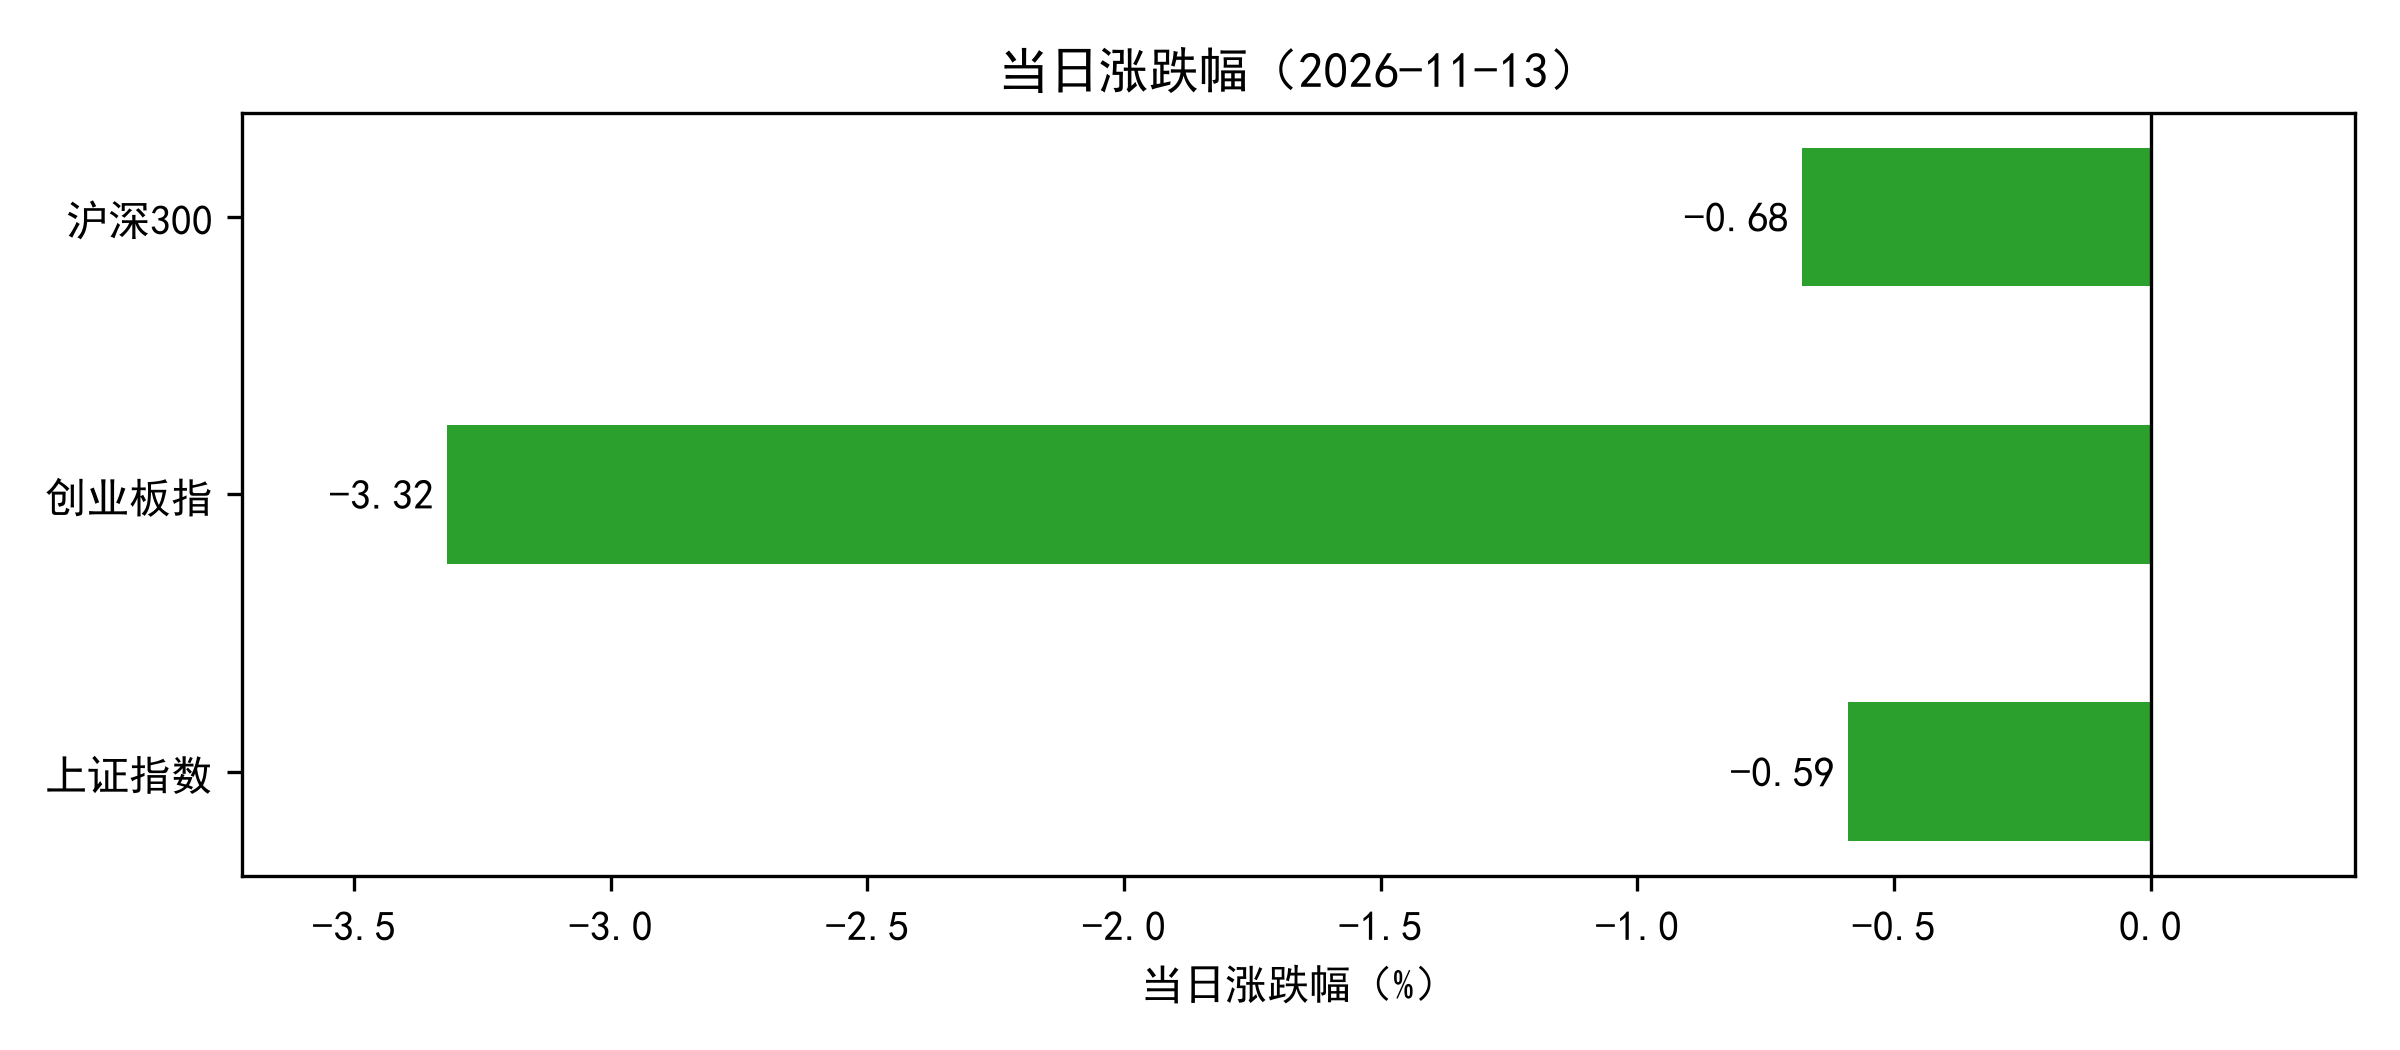
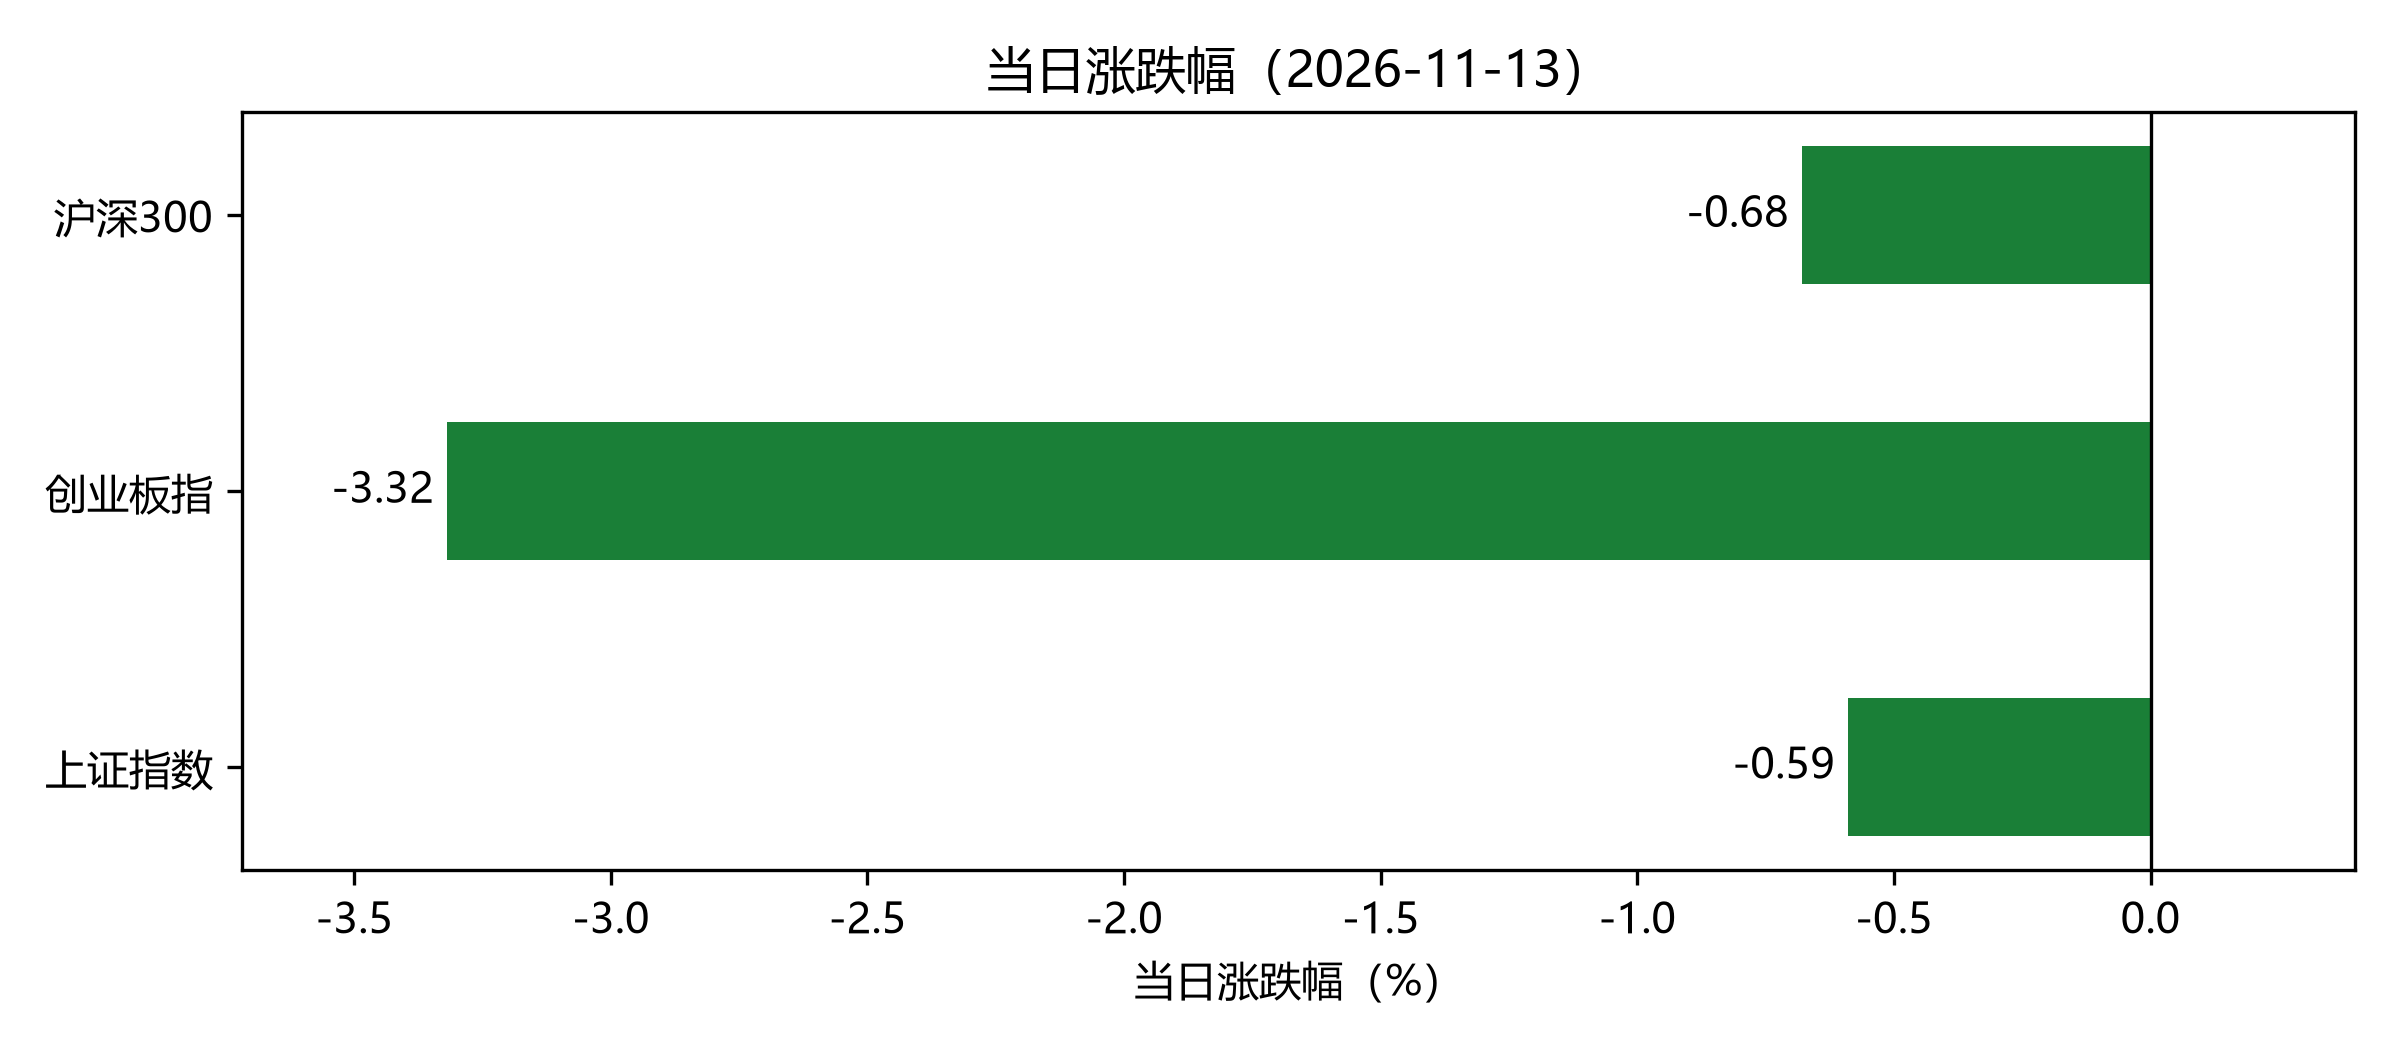
页面美化

diff --git a/docs/style.css b/docs/style.css
@@ -1,8 +1,116 @@
-body { max-width: 900px; margin: 40px auto; padding: 0 20px;
-       font-family: "Microsoft YaHei", system-ui, sans-serif; color: #333; }
-h1 { font-size: 24px; border-bottom: 2px solid #eee; padding-bottom: 12px; }
-table { width: 100%; border-collapse: collapse; margin: 20px 0; }
-th, td { padding: 10px; border-bottom: 1px solid #eee; text-align: right; }
+:root {
+  --text: #1f2328;
+  --muted: #6b7280;
+  --line: #e5e7eb;
+  --card: #f6f8fa;
+  --accent: #0969da;
+  --up: #d1242f;    /* 涨：红 */
+  --down: #1a7f37;  /* 跌：绿 */
+}
+
+* { box-sizing: border-box; }
+
+body {
+  max-width: 860px;
+  margin: 0 auto;
+  padding: 48px 20px 64px;
+  font-family: -apple-system, "Segoe UI", "Microsoft YaHei", system-ui, sans-serif;
+  font-size: 15px;
+  line-height: 1.65;
+  color: var(--text);
+  background: #fff;
+}
+
+h1 {
+  font-size: 26px;
+  font-weight: 700;
+  letter-spacing: -0.3px;
+  margin: 0 0 6px;
+}
+
+.date {
+  color: var(--muted);
+  font-size: 13px;
+  margin: 0 0 26px;
+  padding-bottom: 18px;
+  border-bottom: 1px solid var(--line);
+}
+
+.summary {
+  background: var(--card);
+  border-left: 3px solid var(--accent);
+  padding: 14px 18px;
+  border-radius: 0 6px 6px 0;
+  margin: 0 0 30px;
+  font-size: 14px;
+  color: #374151;
+}
+
+.cards {
+  display: grid;
+  grid-template-columns: repeat(3, 1fr);
+  gap: 12px;
+  margin: 0 0 34px;
+}
+.card {
+  background: var(--card);
+  border: 1px solid var(--line);
+  border-radius: 10px;
+  padding: 16px 18px;
+}
+.card .name { font-size: 13px; color: var(--muted); margin-bottom: 6px; }
+.card .value {
+  font-size: 24px;
+  font-weight: 600;
+  font-variant-numeric: tabular-nums;
+  letter-spacing: -0.5px;
+}
+.card .sub { font-size: 12px; color: var(--muted); margin-top: 4px; }
+
+.up { color: var(--up); }
+.down { color: var(--down); }
+
+table {
+  width: 100%;
+  border-collapse: collapse;
+  margin: 0 0 36px;
+  font-variant-numeric: tabular-nums;
+}
+th, td {
+  padding: 11px 10px;
+  border-bottom: 1px solid var(--line);
+  text-align: right;
+  font-size: 14px;
+}
 th:first-child, td:first-child { text-align: left; }
-img { width: 100%; margin: 16px 0; }
-footer { color: #999; font-size: 13px; margin-top: 40px; }
+th { font-size: 12px; color: var(--muted); font-weight: 600; letter-spacing: 0.4px; }
+td:first-child { font-weight: 500; }
+tbody tr:hover { background: #fafbfc; }
+
+figure { margin: 0 0 28px; }
+figure img {
+  width: 100%;
+  display: block;
+  border: 1px solid var(--line);
+  border-radius: 10px;
+}
+figcaption {
+  font-size: 12px;
+  color: var(--muted);
+  margin-top: 8px;
+  text-align: center;
+}
+
+footer {
+  border-top: 1px solid var(--line);
+  padding-top: 16px;
+  color: var(--muted);
+  font-size: 12px;
+}
+
+@media (max-width: 640px) {
+  body { padding: 28px 16px 40px; }
+  h1 { font-size: 22px; }
+  .cards { grid-template-columns: 1fr; }
+  th, td { padding: 9px 4px; font-size: 12.5px; }
+}

diff --git a/docs/index.html b/docs/index.html
@@ -3,12 +3,22 @@
 <head>
   <meta charset="utf-8">
   <meta name="viewport" content="width=device-width, initial-scale=1">
-  <title>市场指数日报</title>
+  <meta name="description" content="上证指数、沪深300、创业板指的每交易日行情汇总">
+  <title>市场指数日报 · 2026-11-13</title>
   <link rel="stylesheet" href="style.css">
 </head>
 <body>
   <h1>市场指数日报</h1>
   <p class="date">2026-11-13 收盘</p>
+
+  <p class="summary">当日三大指数全线收跌，跌幅最大的是创业板指（-3.32%）。年初至今创业板指累计回落 26.36%，幅度最深。</p>
+
+  <div class="cards">
+    <div class="card"><div class="name">上证指数</div><div class="value down">-0.59%</div><div class="sub">收盘 3634.35</div></div>
+<div class="card"><div class="name">创业板指</div><div class="value down">-3.32%</div><div class="sub">收盘 2426.08</div></div>
+<div class="card"><div class="name">沪深300</div><div class="value down">-0.68%</div><div class="sub">收盘 4016.29</div></div>
+  </div>
+
   <table>
     <thead>
       <tr>
@@ -17,16 +27,24 @@
       </tr>
     </thead>
     <tbody>
-      <tr><td>上证指数</td><td>3634.35</td><td>-0.59%</td><td>-2.20%</td><td>-9.67%</td><td>1.00</td></tr>
-<tr><td>创业板指</td><td>2426.08</td><td>-3.32%</td><td>-12.49%</td><td>-26.36%</td><td>0.94</td></tr>
-<tr><td>沪深300</td><td>4016.29</td><td>-0.68%</td><td>-3.70%</td><td>-14.87%</td><td>0.95</td></tr>
+      <tr><td>上证指数</td><td>3634.35</td><td class="down">-0.59%</td><td class="down">-2.20%</td><td class="down">-9.67%</td><td>1.00</td></tr>
+<tr><td>创业板指</td><td>2426.08</td><td class="down">-3.32%</td><td class="down">-12.49%</td><td class="down">-26.36%</td><td>0.94</td></tr>
+<tr><td>沪深300</td><td>4016.29</td><td class="down">-0.68%</td><td class="down">-3.70%</td><td class="down">-14.87%</td><td>0.95</td></tr>
     </tbody>
-    <p>过去一年三大指数均在下跌区间，创业板指跌幅最深（约 22.6%），上证指数相对抗跌（约 8.2%）。当日三大指数全线收跌，创业板指跌 3.32%，波动明显大于主板。</p>
   </table>
-  <section>
+
+  <figure>
     <img src="img/trend.png" alt="三大指数近一年走势">
+    <figcaption>近 250 个交易日走势，起点归一化为 100</figcaption>
+  </figure>
+
+  <figure>
     <img src="img/bar.png" alt="当日涨跌幅">
-  </section>
-  <footer>数据来源：新浪财经 · 最后生成：2026-11-13 18:02</footer>
+    <figcaption>2026-11-13 当日涨跌幅，红涨绿跌</figcaption>
+  </figure>
+
+  <footer>
+    数据来源：新浪财经 · 最后生成：2026-11-17 12:31
+  </footer>
 </body>
 </html>

diff --git a/page.py b/page.py
@@ -1,31 +1,95 @@
 import os
+from datetime import datetime
+
 import pandas as pd
-df=pd.read_csv('output/metrics.csv')
-rows=[]
-for _, row in df.iterrows():
+
+df = pd.read_csv('output/metrics.csv')
+
+
+def color(v):
+    """涨红跌绿，返回对应的 class 名"""
+    return "up" if v >= 0 else "down"
+
+
+def pct(v):
+    """带正负号的百分比，例如 +1.23% / -0.59%"""
+    return f"{v:+.2f}%"
+
+
+# ---------- 顶部三张指标卡 ----------
+cards = []
+for _, r in df.iterrows():
+    cards.append(
+        f'<div class="card">'
+        f'<div class="name">{r["指数"]}</div>'
+        f'<div class="value {color(r["当日%"])}">{pct(r["当日%"])}</div>'
+        f'<div class="sub">收盘 {r["收盘"]:.2f}</div>'
+        f'</div>'
+    )
+cards_html = "\n".join(cards)
+
+# ---------- 表格 ----------
+rows = []
+for _, r in df.iterrows():
     rows.append(
         f"<tr>"
-        f"<td>{row['指数']}</td>"
-        f"<td>{row['收盘']:.2f}</td>"
-        f"<td>{row['当日%']:.2f}%</td>"
-        f"<td>{row['近20日%']:.2f}%</td>"
-        f"<td>{row['年初至今%']:.2f}%</td>"
-        f"<td>{row['量比']:.2f}</td>"
+        f"<td>{r['指数']}</td>"
+        f"<td>{r['收盘']:.2f}</td>"
+        f'<td class="{color(r["当日%"])}">{pct(r["当日%"])}</td>'
+        f'<td class="{color(r["近20日%"])}">{pct(r["近20日%"])}</td>'
+        f'<td class="{color(r["年初至今%"])}">{pct(r["年初至今%"])}</td>'
+        f"<td>{r['量比']:.2f}</td>"
         f"</tr>"
     )
-rows_html='\n'.join(rows)
-date=df['日期'].iloc[0]
-html=f"""<!DOCTYPE html>
+rows_html = "\n".join(rows)
+
+# ---------- 结论：从数据算出来，不写死 ----------
+# 写死的数字会在自动更新后变成错的，所以这里每次重新生成。
+down = int((df["当日%"] < 0).sum())
+worst_today = df.loc[df["当日%"].idxmin()]
+worst_ytd = df.loc[df["年初至今%"].idxmin()]
+
+if down == len(df):
+    head = "全线收跌"
+elif down == 0:
+    head = "全线收涨"
+else:
+    head = f"{down} 跌 {len(df) - down} 涨"
+
+summary = (
+    f"当日三大指数{head}，跌幅最大的是{worst_today['指数']}"
+    f"（{worst_today['当日%']:.2f}%）。"
+    f"年初至今{worst_ytd['指数']}累计回落 {abs(worst_ytd['年初至今%']):.2f}%，幅度最深。"
+)
+
+date = df['日期'].iloc[0]
+
+# 生成时间用北京时间（GitHub Actions 的机器跑在 UTC）
+try:
+    from zoneinfo import ZoneInfo
+    generated = datetime.now(ZoneInfo("Asia/Shanghai")).strftime('%Y-%m-%d %H:%M')
+except Exception:
+    generated = datetime.now().strftime('%Y-%m-%d %H:%M')
+
+html = f"""<!DOCTYPE html>
 <html lang="zh-CN">
 <head>
   <meta charset="utf-8">
   <meta name="viewport" content="width=device-width, initial-scale=1">
-  <title>市场指数日报</title>
+  <meta name="description" content="上证指数、沪深300、创业板指的每交易日行情汇总">
+  <title>市场指数日报 · {date}</title>
   <link rel="stylesheet" href="style.css">
 </head>
 <body>
   <h1>市场指数日报</h1>
   <p class="date">{date} 收盘</p>
+
+  <p class="summary">{summary}</p>
+
+  <div class="cards">
+    {cards_html}
+  </div>
+
   <table>
     <thead>
       <tr>
@@ -36,18 +100,27 @@ html=f"""<!DOCTYPE html>
     <tbody>
       {rows_html}
     </tbody>
-    <p>过去一年三大指数均在下跌区间，创业板指跌幅最深（约 22.6%），上证指数相对抗跌（约 8.2%）。当日三大指数全线收跌，创业板指跌 3.32%，波动明显大于主板。</p>
   </table>
-  <section>
+
+  <figure>
     <img src="img/trend.png" alt="三大指数近一年走势">
+    <figcaption>近 250 个交易日走势，起点归一化为 100</figcaption>
+  </figure>
+
+  <figure>
     <img src="img/bar.png" alt="当日涨跌幅">
-  </section>
-  <footer>数据来源：新浪财经 · 最后生成：2026-11-13 18:02</footer>
+    <figcaption>{date} 当日涨跌幅，红涨绿跌</figcaption>
+  </figure>
+
+  <footer>
+    数据来源：新浪财经 · 最后生成：{generated}
+  </footer>
 </body>
 </html>
 """
-os.makedirs('docs',exist_ok=True)
-with open(os.path.join('docs','index.html'),'w',encoding='utf-8') as f:
+
+os.makedirs('docs', exist_ok=True)
+with open(os.path.join('docs', 'index.html'), 'w', encoding='utf-8') as f:
     f.write(html)
 print("已生成 docs/index.html")
 print("页面里共有", len(df), "行数据")

diff --git a/charts.py b/charts.py
@@ -2,7 +2,8 @@ import matplotlib.pyplot as plt
 import pandas as pd
 import os
 import matplotlib.dates as mdates
-plt.rcParams['font.sans-serif']=['SimHei']
+# 三个字体按顺序找，Windows 用前两个，Linux（GitHub Actions）用最后一个
+plt.rcParams['font.sans-serif']=['Microsoft YaHei','SimHei','Noto Sans CJK SC']
 plt.rcParams['axes.unicode_minus']=False
 data1=pd.read_csv('data/raw/上证指数_sh000001.csv')
 data2=pd.read_csv("data/raw/创业板指_sz399006.csv")
@@ -37,7 +38,7 @@ fig,ax=plt.subplots(figsize=(12,6))
 for name,df in dict1.items():
     ax.plot(df['date'],df['norm'],label=name)
 ax.axhline(y=100,color='gray',linestyle='--')
-ax.set_title("三大指数近一年走势")
+ax.set_title("三大指数近一年走势（起点 = 100）")
 ax.set_ylabel("相对起点")
 ax.legend()
 ax.grid(alpha=0.3)
@@ -52,7 +53,7 @@ values=[i for i in columns_frame['当日%']]
 names=[i for i in columns_frame['指数']]
 print(values)
 print(names)
-colors=["#d62728" if v>=0 else "#2ca02c" for v in values]
+colors=["#d1242f" if v>=0 else "#1a7f37" for v in values]
 fig,ax=plt.subplots(figsize=(8,3.5))
 bars=ax.barh(names,values,color=colors,height=0.5)
 ax.axvline(x=0,color='black',linewidth=0.8)
@@ -62,6 +63,6 @@ lo=min(min(values),0)
 hi=max(max(values),0)
 pad=(hi-lo)*0.12
 ax.set_xlim(lo-pad,hi+pad)
-ax.set_title("当日涨跌幅（2026-11-13）")
+ax.set_title(f"当日涨跌幅（{columns_frame['日期'].iloc[0]}）")
 fig.tight_layout()
 fig.savefig('docs/img/bar.png',dpi=300)
